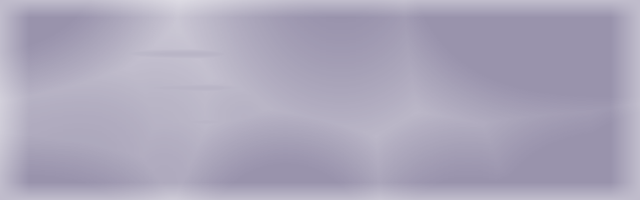
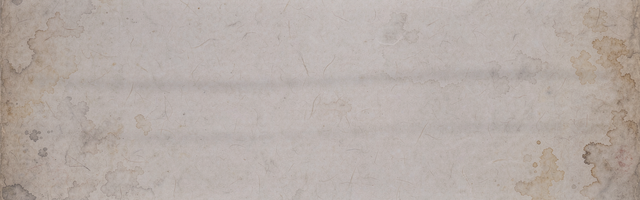
art+fix(campaign): 瘴雾封面改水墨(用工程自己的宣纸paper.png做底+柔墨晕,完全盖住节点);起雾那一格(天象)不再盖雾、也不计入3节(=雾从它之后开始,3节后才散)

diff --git a/Assets/WanXiang/Modules/UI/CampaignPanel.cs b/Assets/WanXiang/Modules/UI/CampaignPanel.cs
@@ -177,10 +177,19 @@ namespace WanXiang.Modules.UI
                     //     否则"雾散了图又变回去"会很怪。它跟 VisitedNodes 一样在换幕/重开时清。
                     if (prun.FogLeft > 0)
                     {
-                        prun.FogLeft--;
-                        Debug.Log("[Campaign] 瘴雾：通过节点 ⇒ 剩余 " + prun.FogLeft + " 节" +
-                                  (prun.FogLeft == 0 ? "（雾散）" : ""));
-                        if (prun.FogLeft == 0) { ShowFogBanner("雾散了，前路已非"); prun.FogTriggerNode = -1; }  // ★ 雾散提示 + 起雾格恢复可见
+                        if (PendingCommit == prun.FogTriggerNode)
+                        {
+                            // ★ 起雾那一格（天象节点）**不算进 3 节**（用户定案："要后续 3 个节点"）⇒ 跳过这次扣减
+                            prun.FogTriggerNode = -1;
+                            Debug.Log("[Campaign] 瘴雾：通过「起雾格」（不计入）⇒ 仍剩 " + prun.FogLeft + " 节");
+                        }
+                        else
+                        {
+                            prun.FogLeft--;
+                            Debug.Log("[Campaign] 瘴雾：通过节点 ⇒ 剩余 " + prun.FogLeft + " 节" +
+                                      (prun.FogLeft == 0 ? "（雾散）" : ""));
+                        }
+                        if (prun.FogLeft == 0) { ShowFogBanner("雾散了，前路已非"); prun.FogTriggerNode = -1; }
                     }
                     // ★ 节点真正「通过」（离开事件/战斗面板回地图落地）⇒ 所有星移余气 -1（扣到负移除）。
                     //   推迟到此处而非「出征」点击，保证「进编队又返回」不算通过、星移仍可撤销
@@ -821,9 +830,8 @@ Debug.Log("[Campaign] 图诊断：幕=" + (_graph != null ? _graph.Act.ToString(
         {
             int f = FogFromLayer();
             if (f == int.MaxValue || _graph == null) return false;
-            // ★ "起雾的那一格"本身也算被雾盖住（用户：把迷雾节点也设置成未知，一起被雾挡）
-            var run = WanXiang.Run.RunSave.Current;
-            if (run != null && run.FogTriggerNode == offset) return true;
+            // ⛔ 起雾的那一格（天象节点）**不盖雾** —— 用户 2026-10-10 定案："不要包括一开始的迷雾节点，
+            //   要后续 3 个节点，不然这个天象节点怎么解释"（玩家要看得见、走得进去，雾从它之后开始）。
             return _graph.LayerOf(offset) >= f;
         }
 
